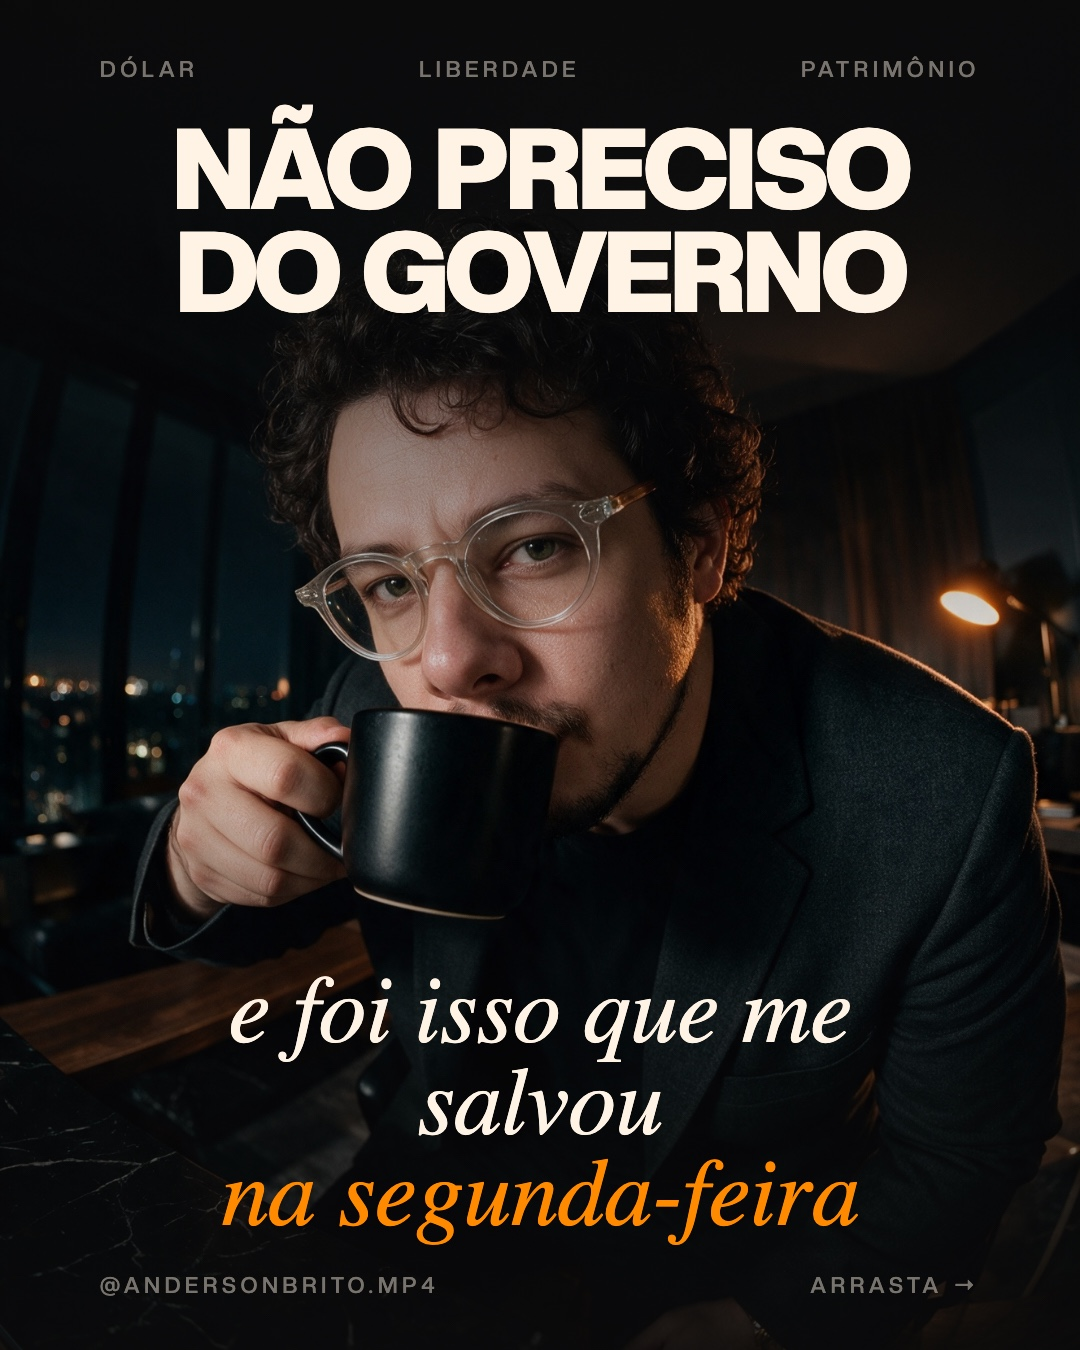
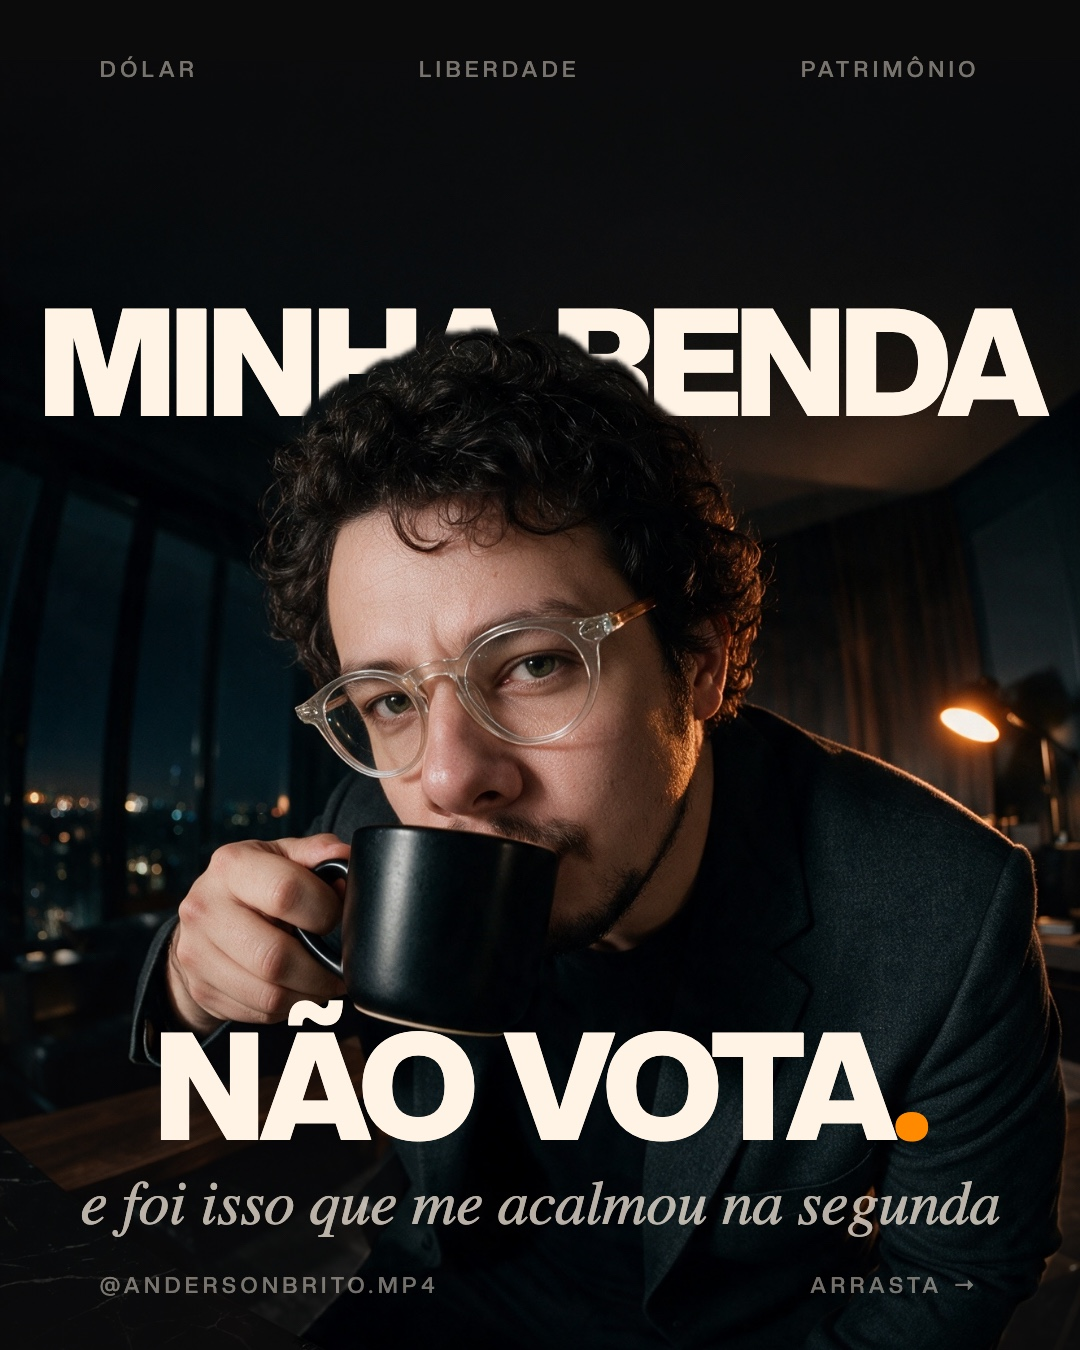
carrosséis: capa com título atrás da cabeça (recorte Vision) e Doom no Nano Banana

diff --git a/carrosseis/recorte.swift b/carrosseis/recorte.swift
@@ -1,0 +1,12 @@
+// Recorta a pessoa da foto (Vision do macOS) e salva PNG com fundo transparente. Uso: swift recorte.swift in.jpg out.png
+import Vision; import CoreImage; import AppKit
+let a = CommandLine.arguments
+let ci = CIImage(contentsOf: URL(fileURLWithPath: a[1]))!
+let req = VNGenerateForegroundInstanceMaskRequest()
+let h = VNImageRequestHandler(ciImage: ci)
+try! h.perform([req])
+let r = req.results!.first!
+let buf = try! r.generateMaskedImage(ofInstances: r.allInstances, from: h, croppedToInstancesExtent: false)
+let out = CIImage(cvPixelBuffer: buf)
+let ctx = CIContext()
+try! ctx.writePNGRepresentation(of: out, to: URL(fileURLWithPath: a[2]), format: .RGBA8, colorSpace: CGColorSpaceCreateDeviceRGB())

diff --git a/carrosseis/liberdade.py b/carrosseis/liberdade.py
@@ -6,22 +6,23 @@ frame = lambda n, tot=8: f'<div class="top"><span>{H}</span><span>{n:02d} / {tot
 def txt(n, inner, extra=""):
     return f'{extra}{frame(n)}<div class="s" style="justify-content:center;gap:48px">{inner}</div><div class="bot"><span>liberdade</span><span>arrasta →</span></div>'
 S = [
-# 1 capa
-f'''<div class="bgimg" style="background-image:url({IMG}liberdade-capa.jpg);background-position:50% 70%"></div>
-<div class="shade" style="background:linear-gradient(180deg,rgba(11,11,11,.92) 0%,rgba(11,11,11,.35) 34%,rgba(11,11,11,0) 55%,rgba(11,11,11,.85) 100%)"></div>
+# 1 capa: título atrás da cabeça (fundo → título → recorte da pessoa)
+f'''<div class="bgimg" style="background-image:url({IMG}liberdade-capa.jpg);background-size:1080px auto;background-position:50% 60px;background-repeat:no-repeat"></div>
+<div class="shade" style="background:linear-gradient(180deg,rgba(11,11,11,1) 0%,rgba(11,11,11,.6) 12%,rgba(11,11,11,0) 30%,rgba(11,11,11,0) 60%,rgba(11,11,11,.9) 100%)"></div>
+<div style="position:absolute;left:0;right:0;top:300px;text-align:center"><div class="h" style="font-size:150px;line-height:.84;letter-spacing:-.045em;color:#FFF3E5;white-space:nowrap">Minha renda</div></div>
+<div class="bgimg" style="background-image:url({IMG}liberdade-capa-recorte.png);background-size:1080px auto;background-position:50% 60px;background-repeat:no-repeat"></div>
 <div class="top"><span>dólar</span><span>liberdade</span><span>patrimônio</span></div>
-<div class="s" style="padding-top:118px">
- <div class="h" style="font-size:112px;text-align:center">Não preciso<br>do governo</div>
- <div class="grow"></div>
- <div style="text-align:center"><div class="ser" style="font-size:96px;line-height:.95">e foi isso que me salvou</div><div class="ser acc" style="font-size:96px;line-height:.95">na segunda-feira</div></div>
+<div style="position:absolute;left:0;right:0;bottom:110px;text-align:center">
+ <div class="h" style="font-size:150px;line-height:.9">não vota<span class="acc">.</span></div>
+ <div class="ser" style="font-size:62px;color:var(--fg2);margin-top:14px">e foi isso que me acalmou na segunda</div>
 </div>
 <div class="bot"><span>{H}</span><span>arrasta →</span></div>''',
 # 2
 txt(2, '<div class="eyebrow">Domingo</div><div class="h2">Eu fiquei triste com o resultado.</div><div class="p">Não vou fingir que não. Fiquei.</div>'),
 # 3
-txt(3, '<div class="eyebrow">Segunda-feira</div><div class="h2">Aí eu lembrei de <span class="ser acc">três coisas.</span></div><div class="list"><div class="li"><i>i.</i><span>Parte da minha renda é em dólar.</span></div><div class="li"><i>ii.</i><span>Não recebo nada do governo.</span></div><div class="li"><i>iii.</i><span>Não dependo dele pra viver.</span></div></div>'),
+txt(3, '<div class="eyebrow">Segunda-feira</div><div class="h2">Aí eu lembrei de <span class="ser acc">três coisas.</span></div><div class="list"><div class="li"><i>i.</i><span>Parte da minha renda é em dólar.</span></div><div class="li"><i>ii.</i><span>Não recebo benefício do governo.</span></div><div class="li"><i>iii.</i><span>Meu plano não conta com aposentadoria.</span></div></div>'),
 # 4
-txt(4, '<div class="h2">O governo atrapalha?</div><div class="h2 ser acc" style="font-size:110px">Atrapalha.</div><div class="rule"></div><div class="p">Mesmo assim, prefiro mil vezes estar <b>desse lado</b> do que precisar dele.</div>'),
+txt(4, '<div class="h2">O governo atrapalha?</div><div class="h2 ser acc" style="font-size:110px">Atrapalha.</div><div class="rule"></div><div class="p">Mesmo assim, prefiro <b>depender dele o mínimo possível.</b></div>'),
 # 5
 txt(5, '<div class="p" style="font-size:58px;color:var(--fg)">Muita gente milita por político porque, de algum jeito,</div><div class="h" style="font-size:140px">precisa<br><span class="ser acc">dele.</span></div>'),
 # 6 imagem janela
@@ -42,4 +43,4 @@ f'''{frame(8)}<div class="s" style="justify-content:center;align-items:center;te
  <div class="eyebrow" style="color:var(--mute)">comenta aqui · {H}</div>
 </div>''',
 ]
-print(render("liberdade", T, S, {"titulo":"Não preciso do governo","perfil":"@andersonbrito.mp4","legenda":"Domingo eu fiquei triste. Segunda lembrei que parte da minha renda é em dólar, que não recebo nada do governo e que não dependo dele.\n\nO resultado da eleição muda meu humor, mas não meu mês.\n\nE você, depende de quem?","criado":"2026-10-28"}))
+print(render("liberdade", T, S, {"titulo":"Minha renda não vota","perfil":"@andersonbrito.mp4","legenda":"Domingo eu fiquei triste. Segunda lembrei que parte da minha renda é em dólar, que não recebo benefício do governo e que meu plano não conta com aposentadoria.\n\nO resultado da eleição muda meu humor, mas não meu mês.\n\nE você, depende de quem?","criado":"2026-10-28"}))

diff --git a/carrosseis/doom.py b/carrosseis/doom.py
@@ -18,8 +18,8 @@ f'''<div class="bgimg" style="background-image:url({IMG}doom-ref.webp);backgroun
 </div><div class="bot"><span>{H}</span><span>arrasta →</span></div>''',
 txt(2, '<div class="eyebrow">Antes, a composição</div><div class="h2">Todo post que para o dedo tem <span class="ser acc">três coisas:</span></div><div class="list"><div class="li"><i>i.</i><span>Gancho visual que faz parar.</span></div><div class="li"><i>ii.</i><span>Texto simples, rápido de ler.</span></div><div class="li"><i>iii.</i><span>Mensagem clara e objetiva.</span></div></div>'),
 txt(3, step(1)+'<div class="h2">Ache imagens com <span class="ser acc">prompt público.</span></div><div class="rule"></div><div class="p">Assim você pula a parte de pensar composição e estilo. O ponto de partida já está pronto, <b>sem copiar ninguém.</b></div>'),
-f'''<div class="bgimg" style="background-image:url({IMG}doom-ref.webp);background-size:auto 640px;background-position:center 0;background-repeat:no-repeat;height:640px;filter:saturate(.9)"></div>
-<div class="shade" style="background:linear-gradient(180deg,rgba(12,20,17,.5) 0%,rgba(12,20,17,0) 22%,rgba(12,20,17,0) 32%,#0c1411 48%)"></div>
+f'''<div class="bgimg" style="background-image:url({IMG}doom-laptop.jpg);background-size:1080px auto;background-position:center 0;background-repeat:no-repeat;height:900px"></div>
+<div class="shade" style="background:linear-gradient(180deg,rgba(12,20,17,.5) 0%,rgba(12,20,17,0) 18%,rgba(12,20,17,0) 45%,#0c1411 66%)"></div>
 {frame(4)}<div class="s" style="justify-content:flex-end;gap:30px;padding-bottom:120px">
  {step(2)}<div class="h2" style="font-size:80px">Jogue a referência e o seu personagem numa IA.</div>
  <div class="p" style="font-size:40px">Pode ser o Gemini grátis. Peça pra ele <b>trocar o personagem</b> do post pelo seu e adaptar o texto. O Doom vira o Robert, o Robert vira você.</div>
